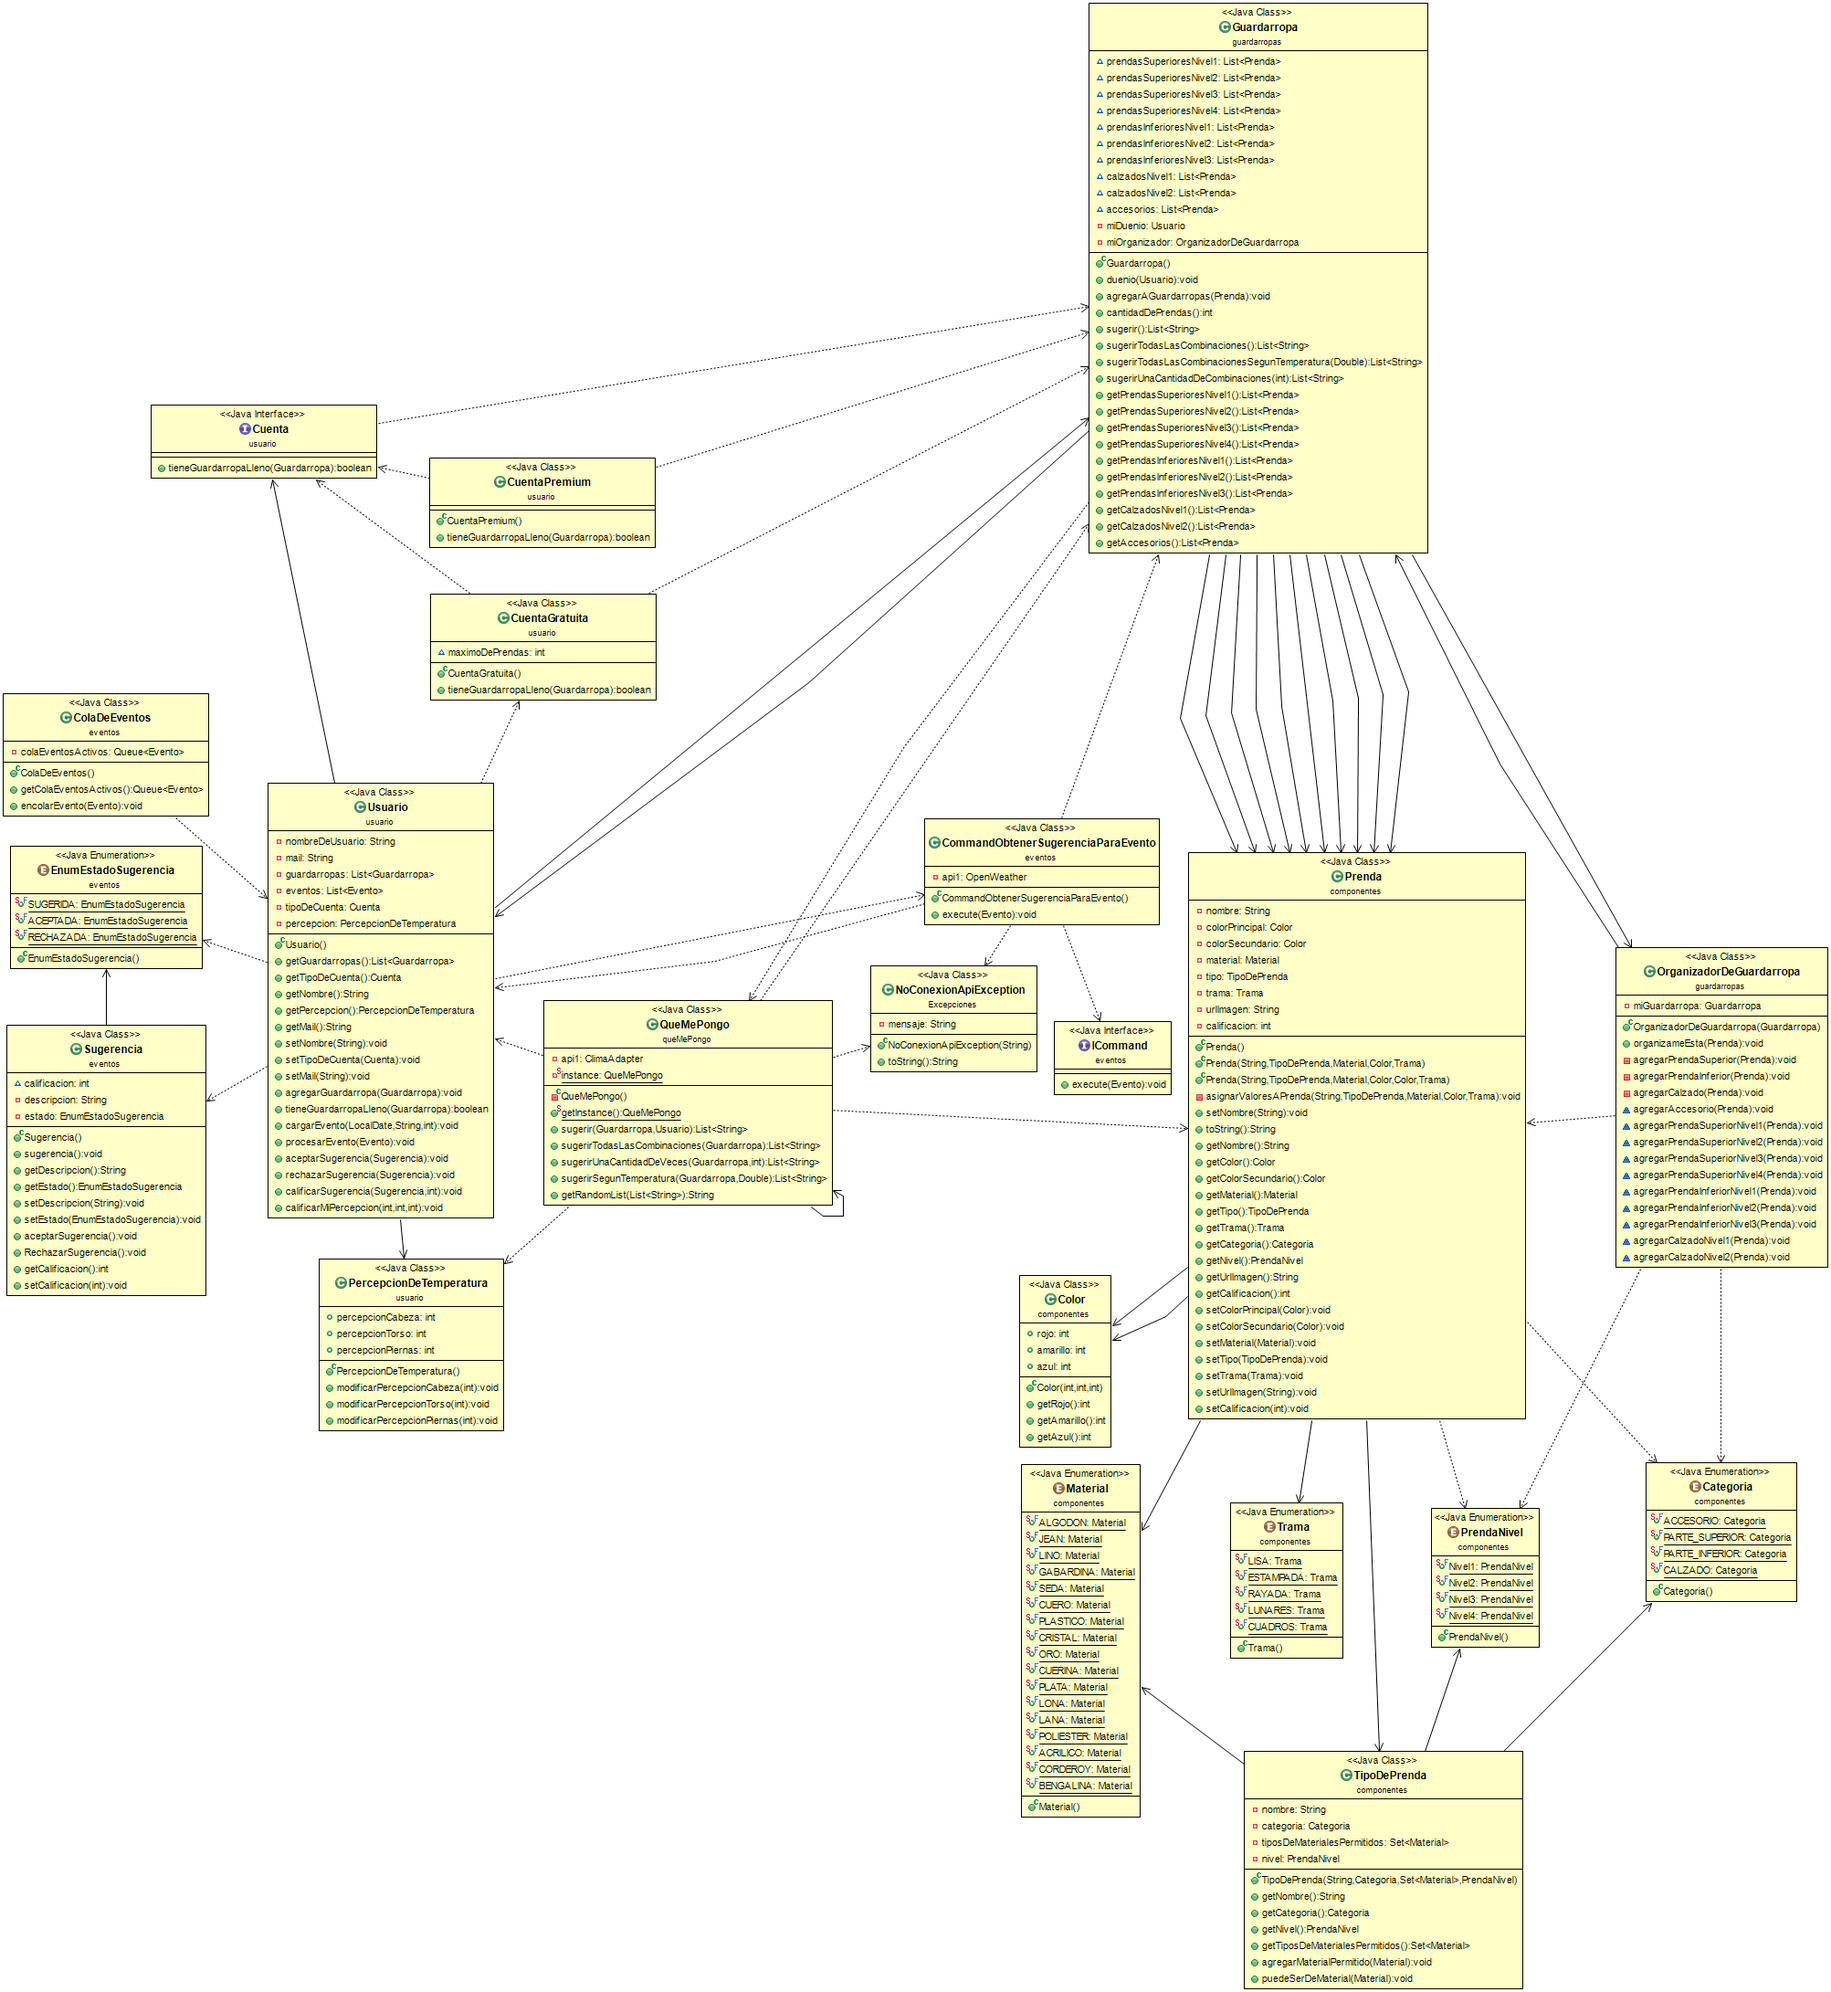
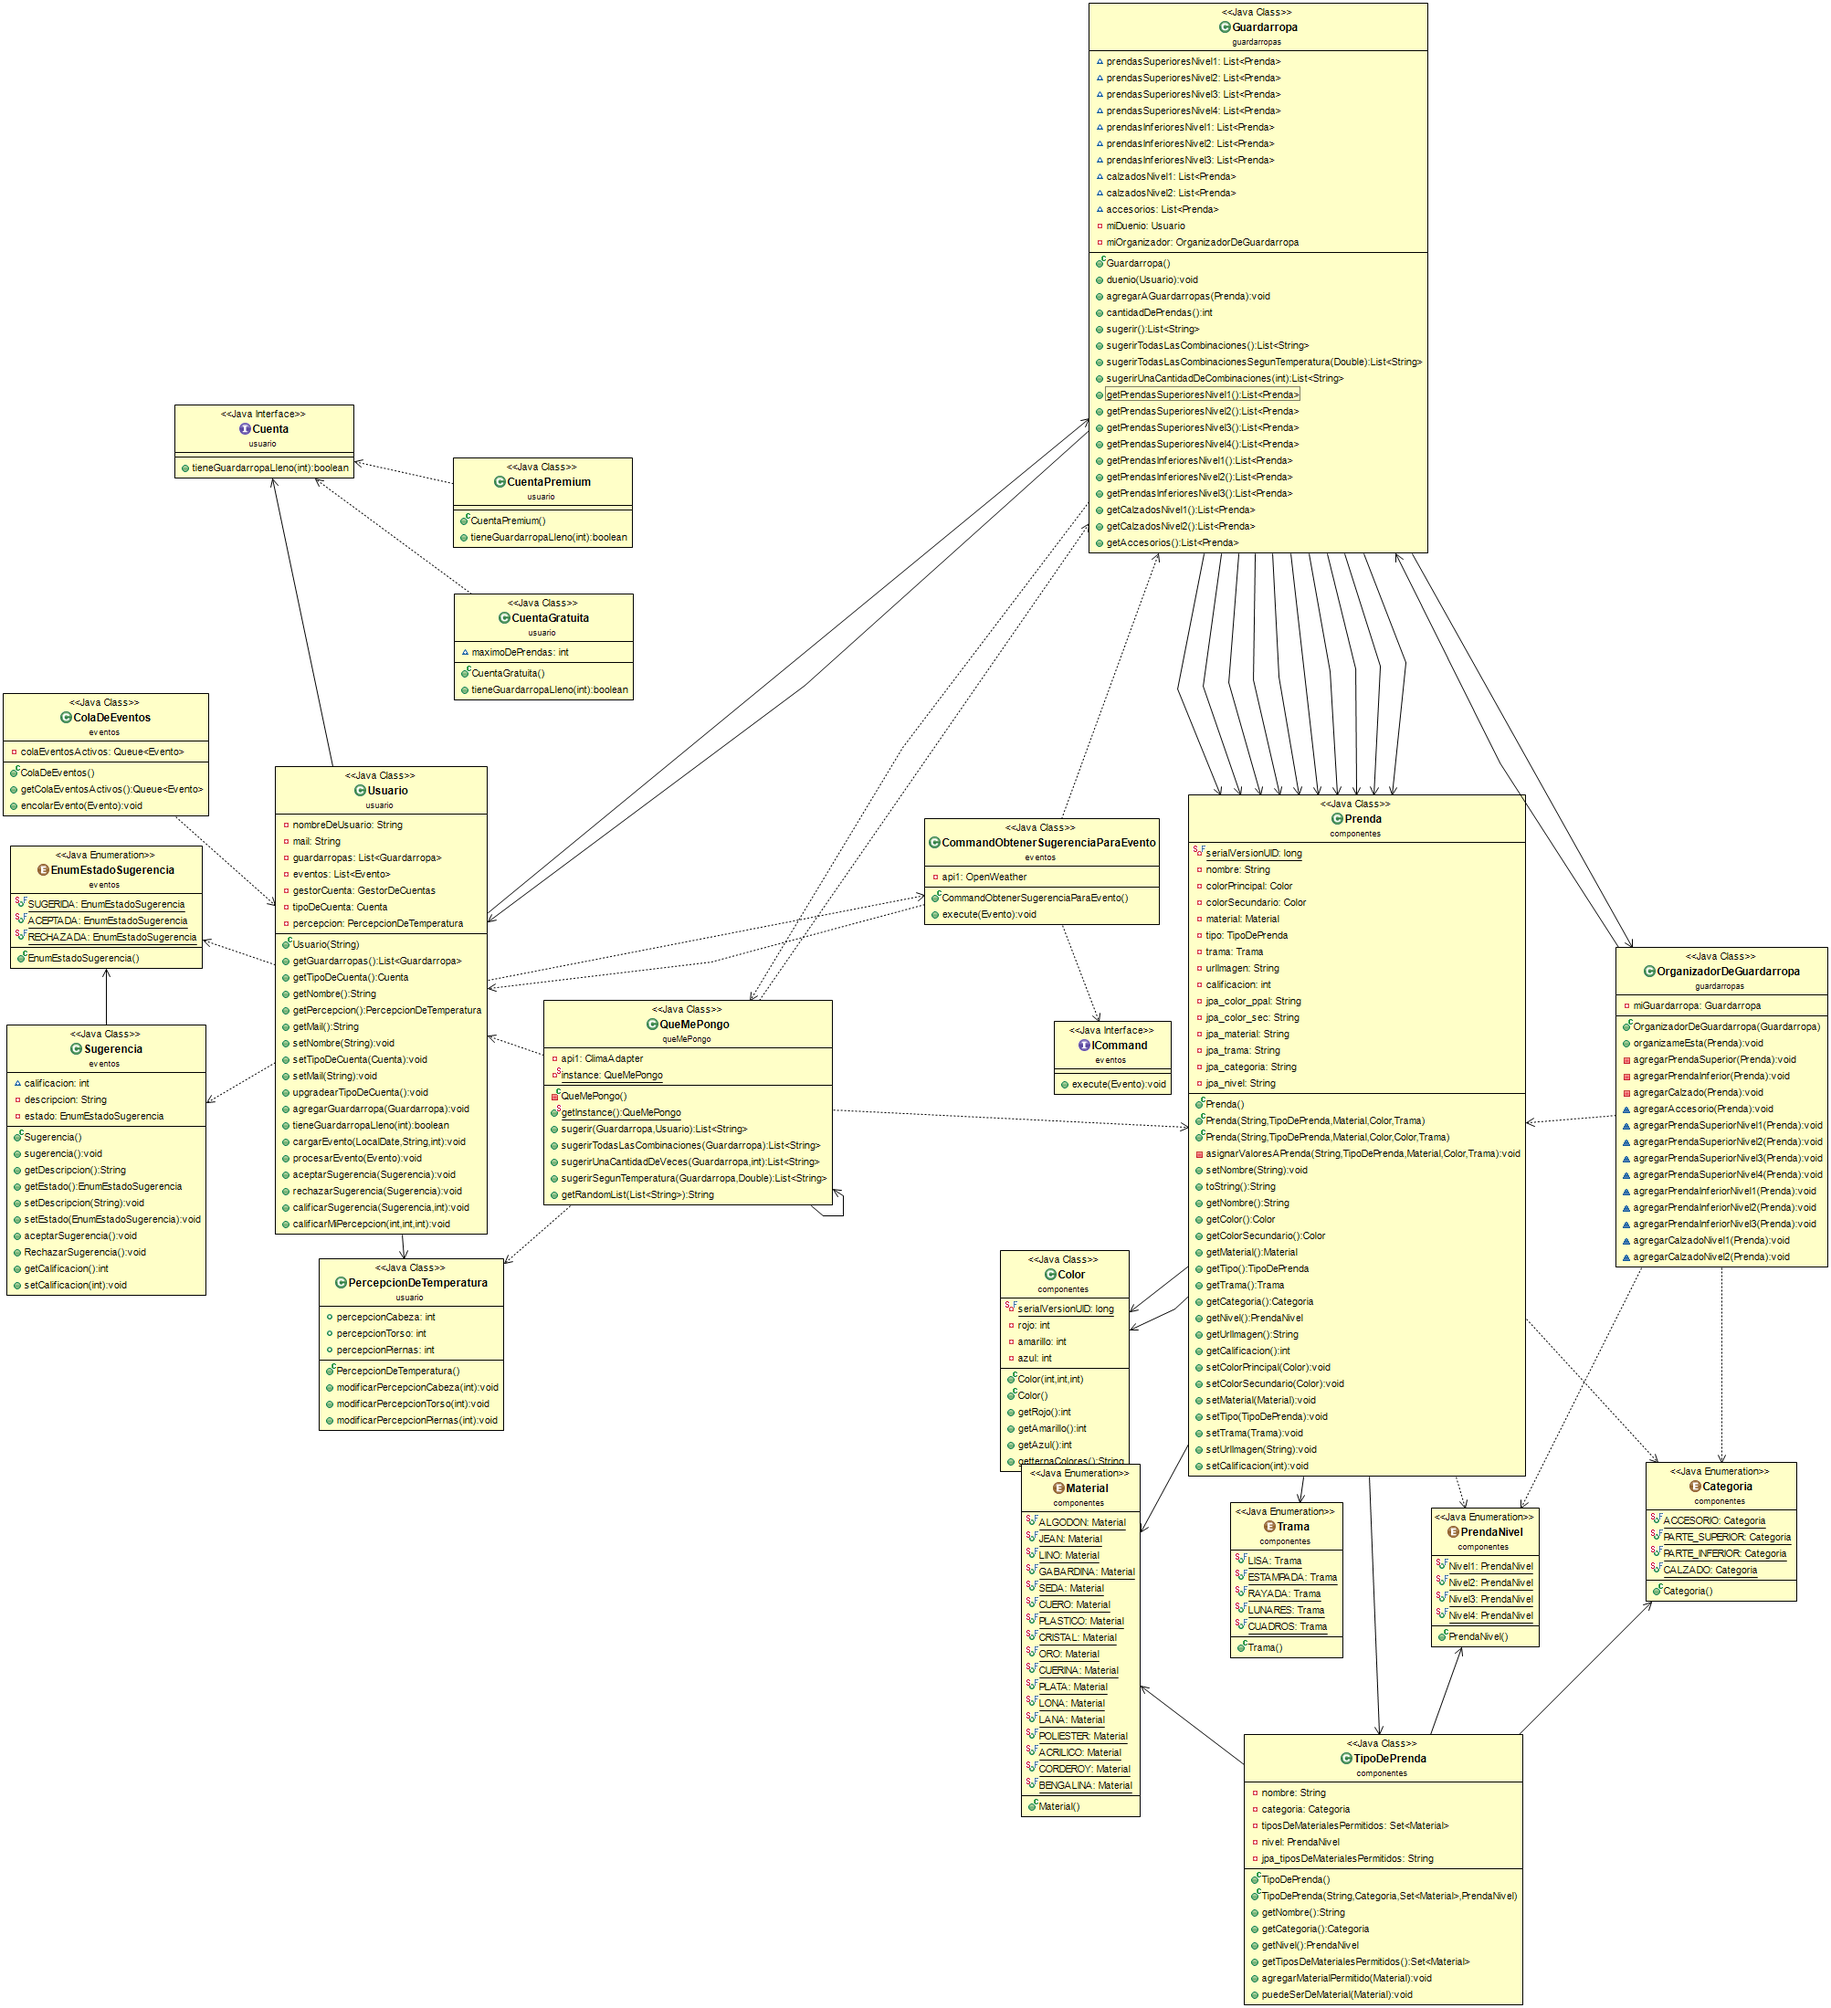
Se abstrae al usuario y al guardarropa de la existencia de TiposDeCuentas
La lógca no se modifica, pero el código se ve mas limpio

diff --git a/src/main/java/usuario/Usuario.java b/src/main/java/usuario/Usuario.java
@@ -19,16 +19,20 @@ public class Usuario {
 	private String mail;
 	private List<Guardarropa> guardarropas = new ArrayList<>();
 	private List<Evento> eventos = new ArrayList<Evento>();
-	
-	private Cuenta tipoDeCuenta = new CuentaGratuita();
-	
+	private GestorDeCuentas gestorCuenta;
+	private Cuenta tipoDeCuenta;
 	private PercepcionDeTemperatura percepcion = new PercepcionDeTemperatura(); 
+	
+	public Usuario(String nombre){
+		this.nombreDeUsuario = nombre;
+		gestorCuenta = new GestorDeCuentas();
+		tipoDeCuenta = gestorCuenta.creameUnaCuenta();
+	}
 	
 	// Getters
 	public List<Guardarropa> getGuardarropas() {
 		return guardarropas;
 	}
-	
 	public Cuenta getTipoDeCuenta() {
 		return tipoDeCuenta;
 	}
@@ -52,6 +56,11 @@ public class Usuario {
 	}
 	public void setMail(String m) {this.mail = m;}
 	
+	//Métodos con tipo de Cuenta
+	public void upgradearTipoDeCuenta(){
+		gestorCuenta.upgradear(tipoDeCuenta);
+	}
+	
 	
 	// Métodos con guardarropas
 	public void agregarGuardarropa(Guardarropa guardarropa) {
@@ -59,8 +68,8 @@ public class Usuario {
 		guardarropa.duenio(this);
 	}
 	
-	public boolean tieneGuardarropaLleno(Guardarropa guardarropa) {
-		return tipoDeCuenta.tieneGuardarropaLleno(guardarropa);
+	public boolean tieneGuardarropaLleno(int cantidadDePrendas) {
+		return tipoDeCuenta.tieneGuardarropaLleno(cantidadDePrendas);
 	}
 
 	
@@ -72,7 +81,6 @@ public class Usuario {
 	}
 	
 	public void procesarEvento(Evento evento) throws IOException {
-		
 		CommandObtenerSugerenciaParaEvento sugerenciaParaEvento = new CommandObtenerSugerenciaParaEvento();
 		sugerenciaParaEvento.execute(evento);
 
@@ -81,9 +89,14 @@ public class Usuario {
 	
 	//Métodos con Sugerencias
 	
-	// los usuarios tendrán la posibilidad de, una vez aceptada una sugerencia, calificarla.
-	// esta calificación (del 1 al 3) servirá para, si le gusto,  
-	// volver a sugerirla en próximos eventos  
+	/*
+	 La idea es que el usuario una vez aceptada una sugerencia, la evalue en su conjunto con valores 
+	 del 1 al 3, en caso de que el usuario elija 1, no se volverá a sugerir dicha sugerencia, luego este 
+	 deberá calificar parte por parte para saber que tan friolento o caluroso es en esa parte del cuerpo
+	 este valor es del -2 al 2, siendo (-2) algo asi como que el usuario se está cagando de frio con eso y 
+	 (+2) que se está cagando de calor 
+	 
+	 */
 	
 	public void aceptarSugerencia(Sugerencia unaSugerencia) {
 		unaSugerencia.setEstado(EnumEstadoSugerencia.ACEPTADA);
@@ -93,29 +106,21 @@ public class Usuario {
 		unaSugerencia.setEstado(EnumEstadoSugerencia.RECHAZADA);
 	}
 	
+
 	public void calificarSugerencia(Sugerencia unaSugerencia, int unaCalificacion) throws Exception {
+		System.out.println("El usuario" + this.getNombre() + " ha calificado con " +
+				unaCalificacion+" la sugerencia "+unaSugerencia.getDescripcion());
 		if( unaSugerencia.getEstado() == EnumEstadoSugerencia.ACEPTADA) {
 			unaSugerencia.setCalificacion(unaCalificacion);
 		}else {
-			throw new Exception("Ingrese una sugerencia ACEPTADA");
+			throw new Exception("Solo se pueden calificar sugerencias ACEPTADAS");
 		}
 	}
-	
-	// La idea es que el usuario una vez aceptada una sugerencia, la evalua en su conjunto (del 1 al 3)
-	// y luego califique parte por parte para saber que tan friolento o caluroso es en esa parte del cuerpo
-	// este valor es del -2 al 2 (siendo -2 algo asi como que el usuario se está cagando de frio con eso y 
-	// (+2) que se está cagando de calor
 	
 	public void calificarMiPercepcion(int percepcionCabeza,	int percepcionTorso,int percepcionPiernas) {
 		percepcion.modificarPercepcionCabeza(percepcionCabeza); 
 		percepcion.modificarPercepcionTorso(percepcionTorso); 
 		percepcion.modificarPercepcionPiernas(percepcionPiernas); 
 	}
-	
-
-	
-//	public void calificarPrenda(Prenda unaPrenda, int calificacion) {
-//		unaPrenda.setCalificacion(calificacion);
-//	}
 	
 }

diff --git a/src/main/java/componentes/Prenda.java b/src/main/java/componentes/Prenda.java
@@ -2,7 +2,10 @@ package componentes;
 
 import javax.persistence.Table;
 import javax.persistence.Transient;
+import javax.persistence.CascadeType;
 import javax.persistence.Entity;
+import javax.persistence.JoinColumn;
+import javax.persistence.ManyToOne;
 
 @Entity
 @Table(name = "PRENDA")
@@ -19,7 +22,9 @@ public class Prenda extends Entidad {
     private Color colorSecundario;
 	@Transient
     private Material material;
-	@Transient
+	//@Transient
+	@ManyToOne(cascade = CascadeType.ALL)
+	@JoinColumn(name = "jpa_tipo", referencedColumnName = "nombre")
     private TipoDePrenda tipo;
 	@Transient
     private Trama trama;
@@ -27,8 +32,8 @@ public class Prenda extends Entidad {
 	private String urlImagen;
 	private int calificacion=0;
 	
-	private String jpa_colorPpal;
-	private String jpa_colorSec;	
+	private String jpa_color_ppal;
+	private String jpa_color_sec;	
 	private String jpa_material;
 	private String jpa_trama;
 	private String jpa_categoria;
@@ -39,28 +44,28 @@ public class Prenda extends Entidad {
     //Constructor: Se puede construir una prenda con o sin color secundario.
     public Prenda(String nombre, TipoDePrenda tipo, Material material, Color colorPrincipal, Trama trama) {
     	Validaciones.validarCreacionPrenda(nombre, tipo, material, colorPrincipal, trama);
-    	asignarValoresAPrenda(nombre, tipo, material, colorPrincipal, null, trama);    	
+    	asignarValoresAPrenda(nombre, tipo, material, colorPrincipal, trama);    	
 	}
 
     public Prenda(String nombre,TipoDePrenda tipo,  Material material, Color colorPrincipal, Color colorSecundario, Trama trama){
     	Validaciones.validarCreacionPrenda(nombre, tipo, material, colorPrincipal, colorSecundario, trama);
-		asignarValoresAPrenda(nombre, tipo, material, colorPrincipal,colorSecundario,trama);
+		asignarValoresAPrenda(nombre, tipo, material, colorPrincipal,trama);
+		this.colorSecundario = colorSecundario;
+		this.jpa_color_sec = colorSecundario.getternaColores();
         
     }
     
-    private void asignarValoresAPrenda(String nombre, TipoDePrenda tipo, Material material, Color cPpal, Color cSec, Trama trama) {
+    private void asignarValoresAPrenda(String nombre, TipoDePrenda tipo, Material material, Color cPpal, Trama trama) {
        	this.nombre = nombre;
 		this.tipo = tipo;
         this.material = material;
         this.colorPrincipal = cPpal;
         this.trama = trama;
-        this.colorSecundario = cSec;
         ///
         this.jpa_material = material.name();
-    	this.jpa_colorPpal = cPpal.getternaColores();
+    	this.jpa_color_ppal = cPpal.getternaColores();
     	this.jpa_categoria = tipo.getCategoria().name();
   		this.jpa_nivel = tipo.getNivel().name();
-    	this.jpa_colorSec = cSec.getternaColores();
     	this.jpa_trama = trama.name();
 	}
     

diff --git a/src/main/java/componentes/TipoDePrenda.java b/src/main/java/componentes/TipoDePrenda.java
@@ -4,6 +4,9 @@ import java.util.Set;
 import javax.persistence.Column;
 import javax.persistence.ElementCollection;
 import javax.persistence.Entity;
+import javax.persistence.Id;
+import javax.persistence.Table;
+import javax.persistence.Transient;
 
 
 /* 
@@ -18,16 +21,20 @@ import javax.persistence.Entity;
 */
 
 @Entity
-public class TipoDePrenda extends Entidad{
+@Table(name = "TIPO_DE_PRENDA")
+public class TipoDePrenda{
 	
-	private static final long serialVersionUID = 1L;
-	
-	@Column(name = "color")
+		
+	@Id
 	private String nombre;
+	@Transient
 	private Categoria categoria;
-	@ElementCollection()
+	//@ElementCollection()
+	@Transient
     private Set<Material> tiposDeMaterialesPermitidos;
-	private PrendaNivel nivel; 
+	@Transient
+	private PrendaNivel nivel;
+	private String jpa_tiposDeMaterialesPermitidos; 
 	
 	public TipoDePrenda() {}
 	
@@ -36,6 +43,7 @@ public class TipoDePrenda extends Entidad{
 		this.categoria = categoria;
 		this.tiposDeMaterialesPermitidos = tiposDeMaterialesPermitidos;
 		this.nivel = nivel;
+		this.jpa_tiposDeMaterialesPermitidos = tiposDeMaterialesPermitidos.toString();
 	}
 	
 	public String getNombre() {
@@ -57,6 +65,7 @@ public class TipoDePrenda extends Entidad{
 	public void agregarMaterialPermitido(Material unMaterial) {
 		/* Agrega un material a los ya existentes*/
 		tiposDeMaterialesPermitidos.add(unMaterial);
+		
 	}
 	
 	public void puedeSerDeMaterial(Material unMaterial) {
@@ -66,6 +75,7 @@ public class TipoDePrenda extends Entidad{
 		}
 	}
 	
+
 	
 	
 	/*

diff --git a/src/main/java/main/mainCreacionUsuariosGuardarropasPrendas.java b/src/main/java/main/mainCreacionUsuariosGuardarropasPrendas.java
@@ -46,7 +46,7 @@ public class mainCreacionUsuariosGuardarropasPrendas {
 		Set <Material> tiposDeMaterialPantalon;
 		Set <Material> tiposDeMaterialLentes;
 		 
-		Usuario ines = new Usuario();
+		Usuario ines = new Usuario("Ines");
 		TipoDePrenda zapato;
 		TipoDePrenda remera;
 		TipoDePrenda pantalon;
@@ -106,6 +106,9 @@ public class mainCreacionUsuariosGuardarropasPrendas {
 		repositorio.prenda().persistir(unaZapatillaLonaBlanca);
 		repositorio.prenda().persistir(unLenteNegro);
 		
+		repositorio.cerrar();
+		emFactory.close();
+		
 		guardarropaInesUno = new Guardarropa();
 	    guardarropaInesUno.duenio(ines);
 	    
@@ -126,6 +129,7 @@ public class mainCreacionUsuariosGuardarropasPrendas {
 	    
 	    //PROBANDO CALIFICAR SUGERENCIAS
 	    
+	      
 	    Sugerencia sugerencia1 = new Sugerencia();
 	    sugerencia1.setDescripcion("Sugerencia que me gusta mucho");
 	    sugerencia1.aceptarSugerencia();
@@ -139,9 +143,7 @@ public class mainCreacionUsuariosGuardarropasPrendas {
 	    System.out.println("Ines No deberia de poder calificar una sugerencia Rechazada");
 	    ines.calificarSugerencia(sugerencia1, 1);
 	    
-	    repositorio.cerrar();
-		emFactory.close();
-			
+	 			
 	}
 	
 }

diff --git a/src/main/java/componentes/Color.java b/src/main/java/componentes/Color.java
@@ -2,10 +2,8 @@ package componentes;
 
 import java.util.Arrays;
 
-import javax.persistence.Column;
-import javax.persistence.Entity;
 
-@Entity 
+
 public class Color extends Entidad{
 	private static final long serialVersionUID = 1L;
 	// EL usuario aportara una una terna RGB
@@ -33,7 +31,6 @@ public class Color extends Entidad{
 		return azul;
 	}
 	
-	@Column(name = "ternaColores")
 	public String getternaColores() {
 		int[] colores = {rojo,amarillo,azul};
 		return  Arrays.toString(colores);

diff --git a/src/main/java/guardarropas/Guardarropa.java b/src/main/java/guardarropas/Guardarropa.java
@@ -51,7 +51,7 @@ public class Guardarropa {
     	if (miDuenio == null) {
     		throw new Exception("Primero debe asignar un usuario a este guardarropa.");
     	}
-    	if (miDuenio.tieneGuardarropaLleno(this)){
+    	if (miDuenio.tieneGuardarropaLleno(this.cantidadDePrendas())){
     		throw new Exception("El usuario no puede agregar mas ropa debido a su plan.");
     	}
     	miOrganizador.organizameEsta(prenda);

diff --git a/src/main/java/usuario/CuentaGratuita.java b/src/main/java/usuario/CuentaGratuita.java
@@ -1,12 +1,10 @@
 package usuario;
 
-import guardarropas.Guardarropa;
-
 public class CuentaGratuita implements Cuenta{
 	int maximoDePrendas=10;
 	
 	@Override
-	public boolean tieneGuardarropaLleno(Guardarropa guardarropa) {
-		return !(guardarropa.cantidadDePrendas()<maximoDePrendas);
+	public boolean tieneGuardarropaLleno(int cantidadDePrendas) {
+		return !(cantidadDePrendas < maximoDePrendas);
 	}
 }

diff --git a/src/main/java/usuario/CuentaPremium.java b/src/main/java/usuario/CuentaPremium.java
@@ -1,11 +1,9 @@
 package usuario;
 
-import guardarropas.Guardarropa;
-
 public class CuentaPremium implements Cuenta{
 	
 	@Override
-	public boolean tieneGuardarropaLleno(Guardarropa guardarropa) {
+	public boolean tieneGuardarropaLleno(int n) {
 		return false;
 	}
 }

diff --git a/src/main/java/usuario/GestorDeCuentas.java b/src/main/java/usuario/GestorDeCuentas.java
@@ -1,0 +1,10 @@
+package usuario;
+
+public class GestorDeCuentas {
+	public Cuenta creameUnaCuenta() {
+		return new CuentaGratuita();
+	}
+	public void upgradear(Cuenta cuantaPobre) {
+		cuantaPobre = new CuentaPremium();
+	}
+}

diff --git a/src/main/java/usuario/Cuenta.java b/src/main/java/usuario/Cuenta.java
@@ -1,7 +1,5 @@
 package usuario;
 
-import guardarropas.Guardarropa;
-
 public interface Cuenta {
-	public boolean tieneGuardarropaLleno(Guardarropa guardarropa);
+	public boolean tieneGuardarropaLleno(int cantidadDePrendas);
 }
